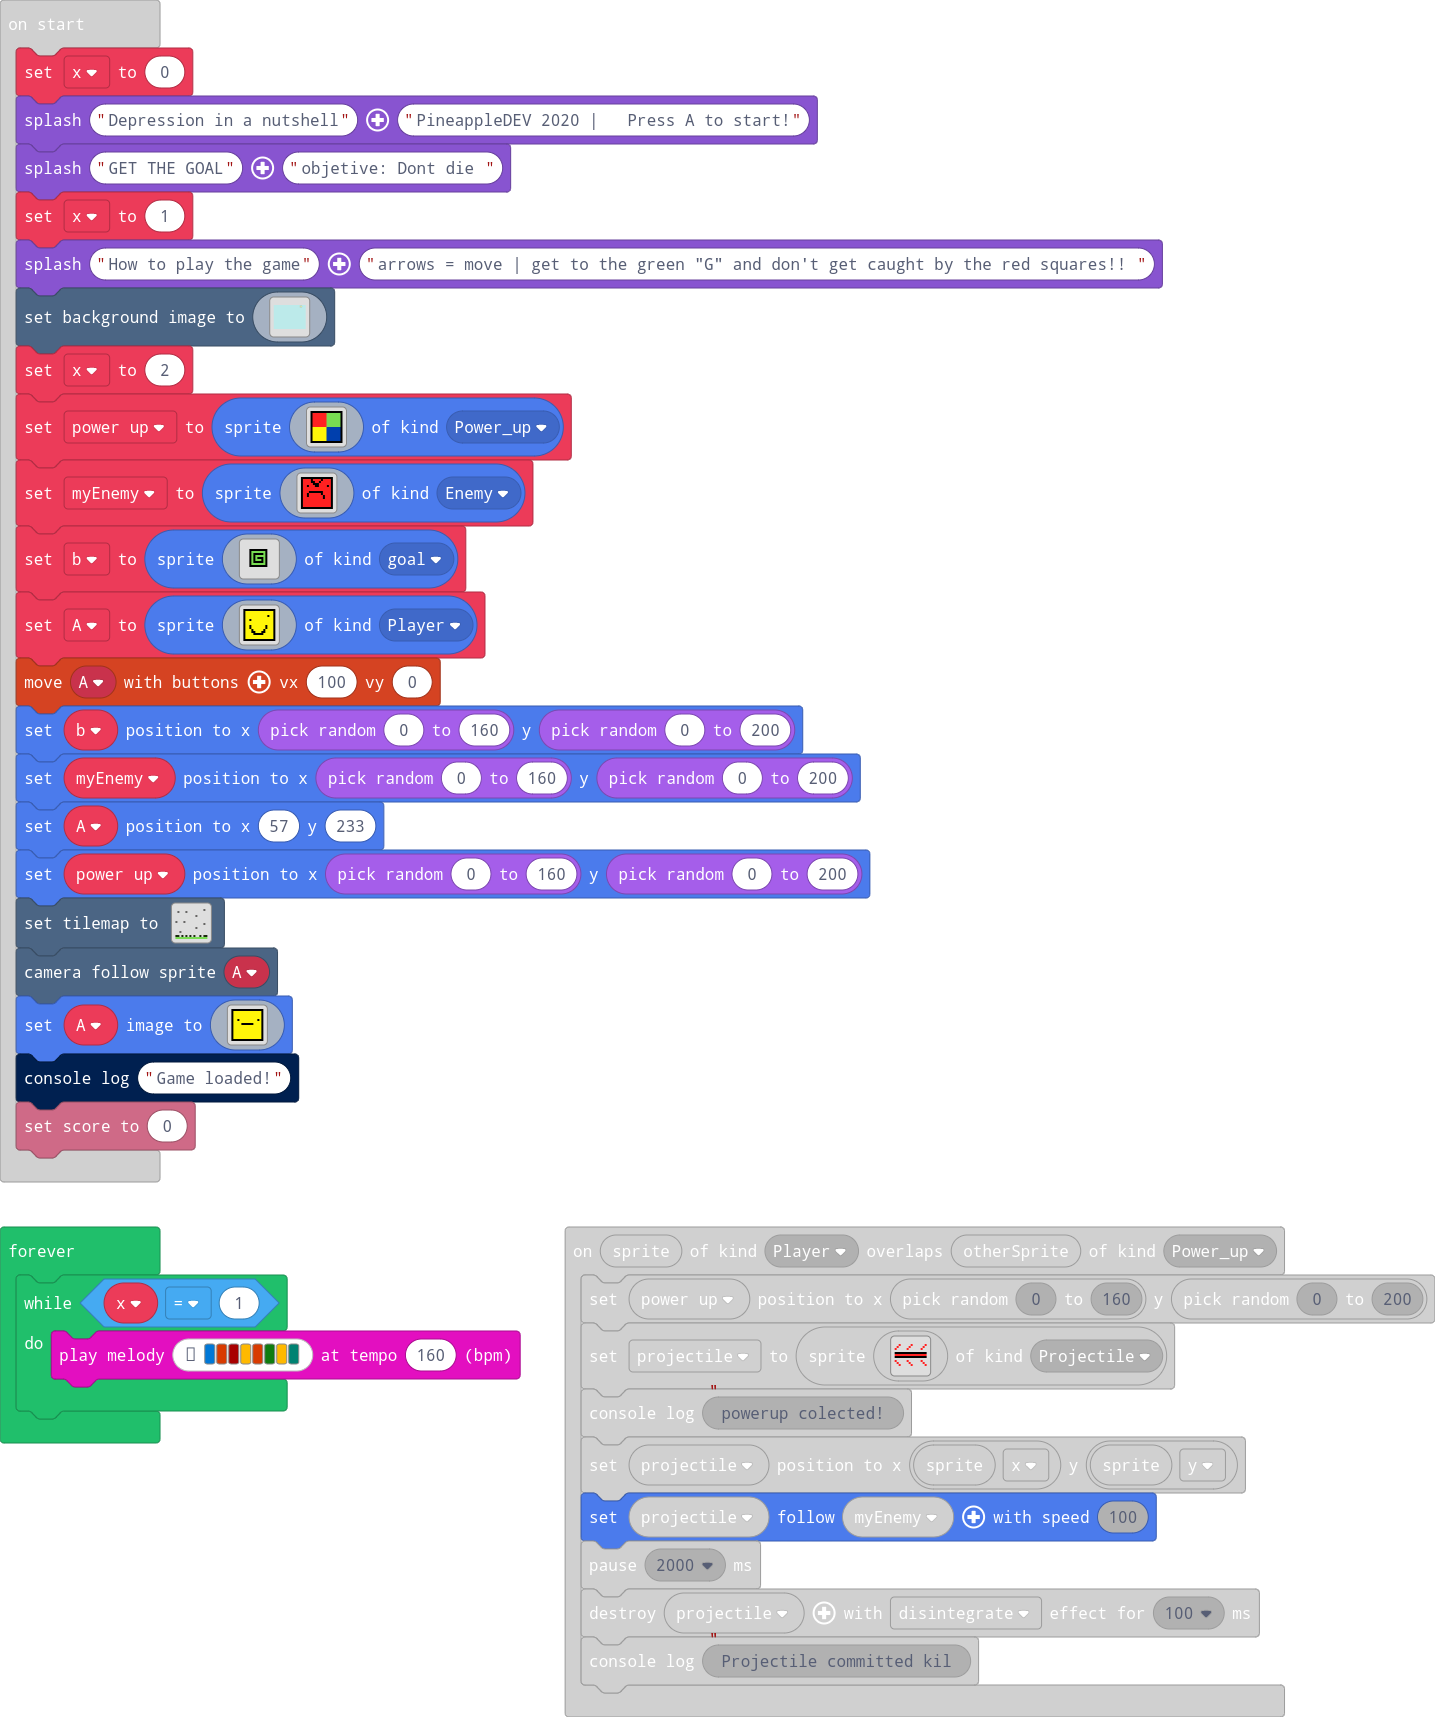
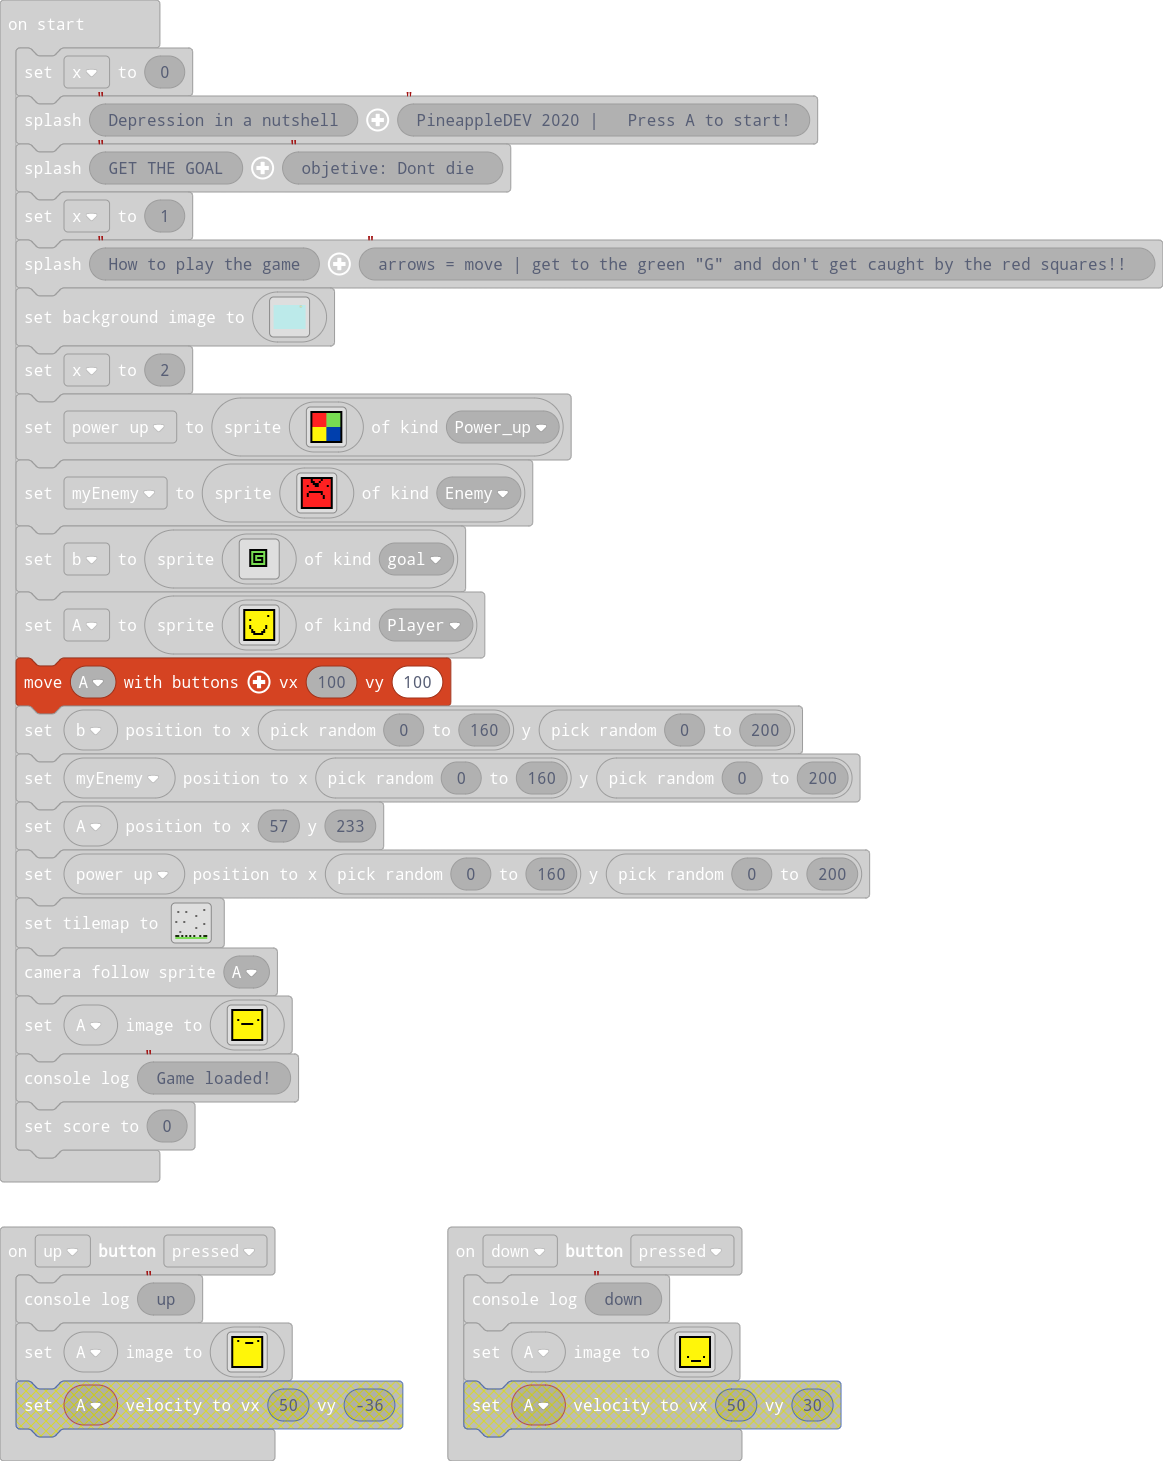
Fixed movement.

diff --git a/main.ts b/main.ts
@@ -161,7 +161,6 @@ f 5 5 5 5 5 5 5 5 5 5 5 5 5 5 f
 f 5 5 5 5 5 5 5 5 5 5 5 5 5 5 f 
 f f f f f f f f f f f f f f f f 
 `)
-    A.setVelocity(50, 30)
 })
 controller.player2.onButtonEvent(ControllerButton.Down, ControllerButtonEvent.Pressed, function () {
     Ap2.setImage(img`
@@ -471,7 +470,6 @@ f 5 5 5 5 5 5 5 5 5 5 5 5 5 5 f
 f 5 5 5 5 5 5 5 5 5 5 5 5 5 5 f 
 f f f f f f f f f f f f f f f f 
 `)
-    A.setVelocity(50, -36)
 })
 sprites.onOverlap(SpriteKind.Player, SpriteKind.goal, function (sprite, otherSprite) {
     console.log("P1 got a point!")
@@ -704,7 +702,7 @@ f 5 5 5 5 5 5 5 5 5 5 5 5 5 5 f
 f 5 5 5 5 5 5 5 5 5 5 5 5 5 5 f 
 f f f f f f f f f f f f f f f f 
 `, SpriteKind.Player)
-controller.moveSprite(A, 100, 0)
+controller.moveSprite(A, 100, 100)
 b.setPosition(Math.randomRange(0, 160), Math.randomRange(0, 200))
 myEnemy.setPosition(Math.randomRange(0, 160), Math.randomRange(0, 200))
 A.setPosition(57, 233)
